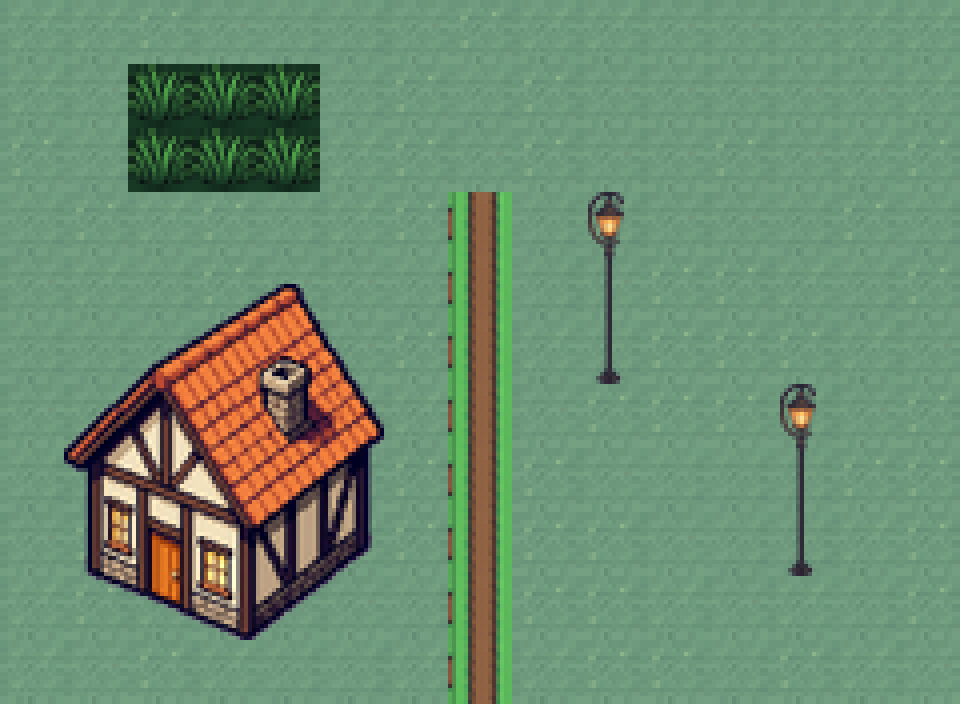
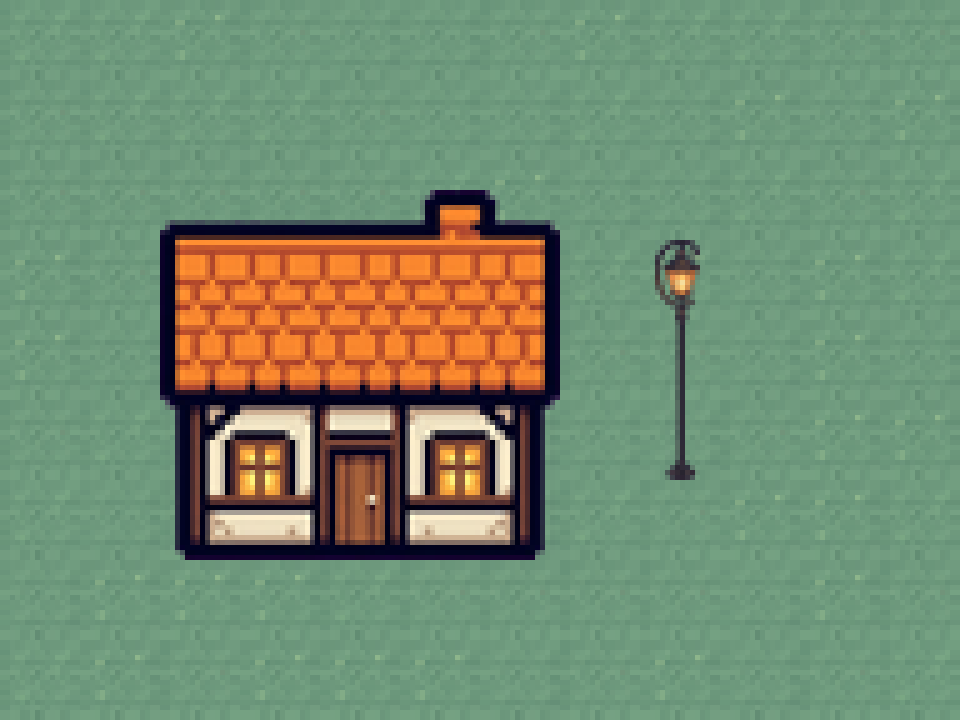
Fix structure projection: top-down GBA, not isometric
Art bible §14b: structures are flat top-down orthographic (GBC/GBA JRPG town
look) — front wall facing camera, roof flat directly above it, never isometric.
Regenerated the cottage object in that projection (front-on, shingled roof,
glowing windows, chimney, contact shadow, transparent over recessive grass).

Changed region(s): [[0.0625, 0.0625, 0.75, 1.0], [0.8125, 0.5312, 0.875, 0.8438]]

diff --git a/docs/art-style.md b/docs/art-style.md
@@ -477,6 +477,11 @@ field of "tiles placed."
 Buildings, big trees, lamp-posts, signs, fences, wells. These are **NOT tiled**
 from wall/roof pieces — that's what makes houses read as flat. Each is **one
 multi-tile object**, designed with real shape, then sliced only for placement:
+- **Projection: flat top-down orthographic — the GBC/GBA "JRPG town" look, NEVER
+  isometric.** A building is a **front wall facing the camera straight-on** with
+  the **roof seen from slightly above, flat, directly over the wall** — no
+  receding 3-D side walls, no dimetric/isometric angle. Match the 2001-handheld
+  monster-RPG town register, not a modern iso builder.
 - **Drawn as a single transparent image** with: a clear silhouette, a **roof/eave
   overhang** that reads as 3-D, **shaded walls** (lit top-left, shadow
   bottom-right), windows/door with depth, and a **soft contact shadow** on the
